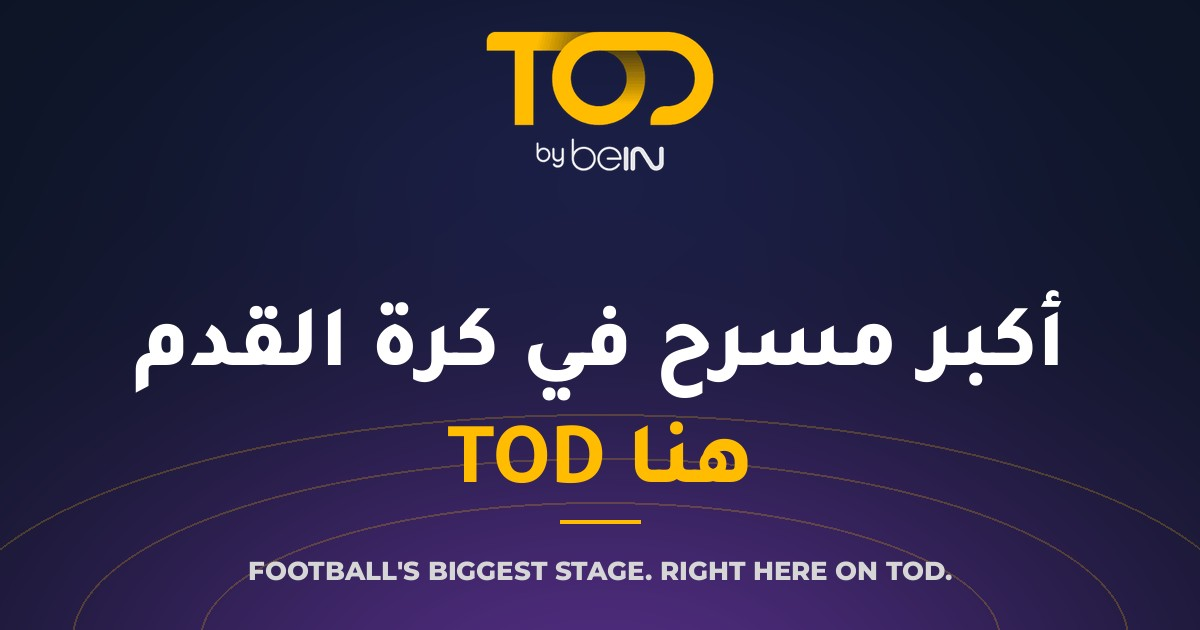
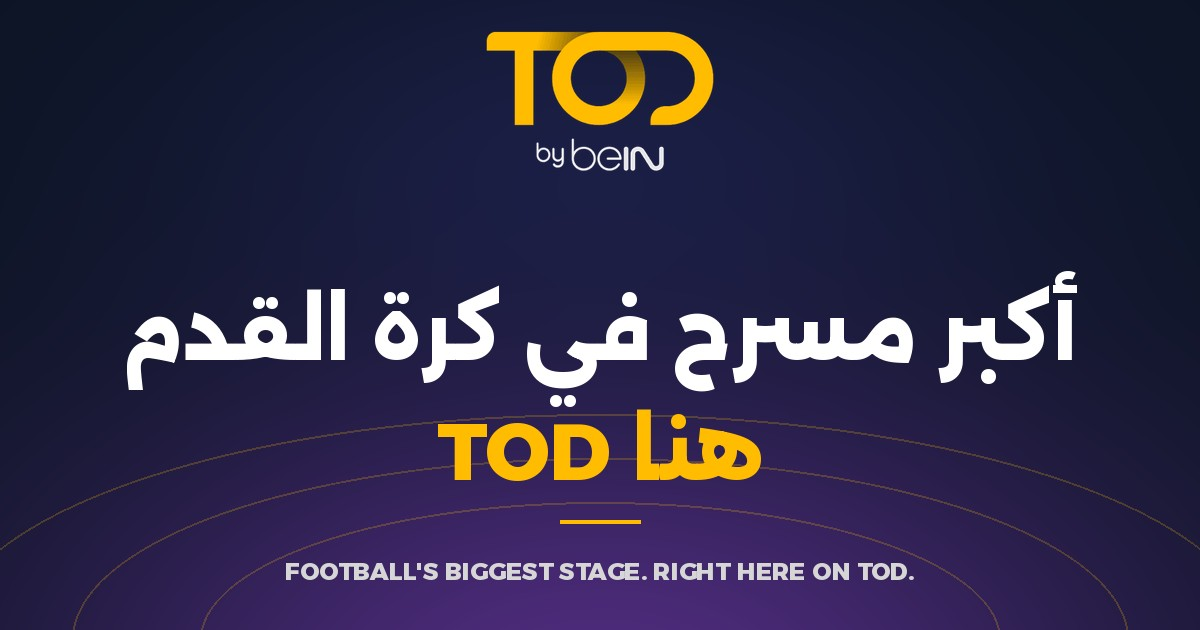
Switch site and share image to Alexandria (Arabic and Latin)
Claude-Session: https://claude.ai/code/session_01CFZ4TB7D55NReAjGwM8RDv

Changed region(s): [[0.0925, 0.4222, 0.8942, 0.7841], [0.185, 0.8746, 0.8017, 0.9349]]

diff --git a/index.html b/index.html
@@ -24,9 +24,9 @@
 <meta name="twitter:image" content="https://a-ayati.github.io/tod-uefa/og-image.jpg">
 <link rel="preconnect" href="https://fonts.googleapis.com">
 <link rel="preconnect" href="https://fonts.gstatic.com" crossorigin>
-<link href="https://fonts.googleapis.com/css2?family=Montserrat:wght@500;600;700;800;900&family=Tajawal:wght@400;500;700;800;900&display=swap" rel="stylesheet">
+<link href="https://fonts.googleapis.com/css2?family=Alexandria:wght@400;500;600;700;800;900&display=swap" rel="stylesheet">
 <style>
-:root{--bg:#0C1423;--yellow:#FFBC00;--ar:"Tajawal","Geeza Pro",Tahoma,sans-serif;--en:"Montserrat","Helvetica Neue",Arial,sans-serif;box-sizing:border-box;padding-top:env(safe-area-inset-top,0px);padding-bottom:env(safe-area-inset-bottom,0px)}
+:root{--bg:#0C1423;--yellow:#FFBC00;--ar:"Alexandria","Geeza Pro",Tahoma,sans-serif;--en:"Alexandria","Helvetica Neue",Arial,sans-serif;box-sizing:border-box;padding-top:env(safe-area-inset-top,0px);padding-bottom:env(safe-area-inset-bottom,0px)}
 @media (prefers-color-scheme:dark){:root:not([data-theme="light"]){--bg:#0C1423}}
 :root[data-theme="dark"]{--bg:#0C1423}
 html{scroll-padding-top:calc(env(safe-area-inset-top,0px) + 70px);scroll-behavior:smooth;background:var(--bg)}
@@ -77,7 +77,7 @@ html[lang="en"] .switch{font-size:12.5px}
 :host{display:block;background:var(--bg);
   --bg:#0C1423; --bg2:#262861; --card:#262861; --line:rgba(255,255,255,.1);
   --violet:#5B308E; --violet2:#7B4FB5; --yellow:#FFBC00; --text:#FFFFFF; --muted:#A8ADC2;
-  --ar:"Tajawal","Geeza Pro",Tahoma,sans-serif; --en:"Montserrat","Helvetica Neue",Arial,sans-serif;
+  --ar:"Alexandria","Geeza Pro",Tahoma,sans-serif; --en:"Alexandria","Helvetica Neue",Arial,sans-serif;
   box-sizing:border-box;
   padding-top:env(safe-area-inset-top,0px); padding-bottom:env(safe-area-inset-bottom,0px);
 }
@@ -373,7 +373,7 @@ dialog .x{position:absolute;top:-44px;inset-inline-end:0;background:rgba(255,255
 :host{display:block;background:var(--bg);
   --bg:#0C1423; --bg2:#262861; --card:#262861; --line:rgba(255,255,255,.1);
   --violet:#5B308E; --yellow:#FFBC00; --text:#fff; --muted:#A8ADC2;
-  --ar:"Tajawal","Geeza Pro",Tahoma,sans-serif; --en:"Montserrat","Helvetica Neue",Arial,sans-serif;
+  --ar:"Alexandria","Geeza Pro",Tahoma,sans-serif; --en:"Alexandria","Helvetica Neue",Arial,sans-serif;
   box-sizing:border-box;
   padding-top:env(safe-area-inset-top,0px); padding-bottom:env(safe-area-inset-bottom,0px);
 }
